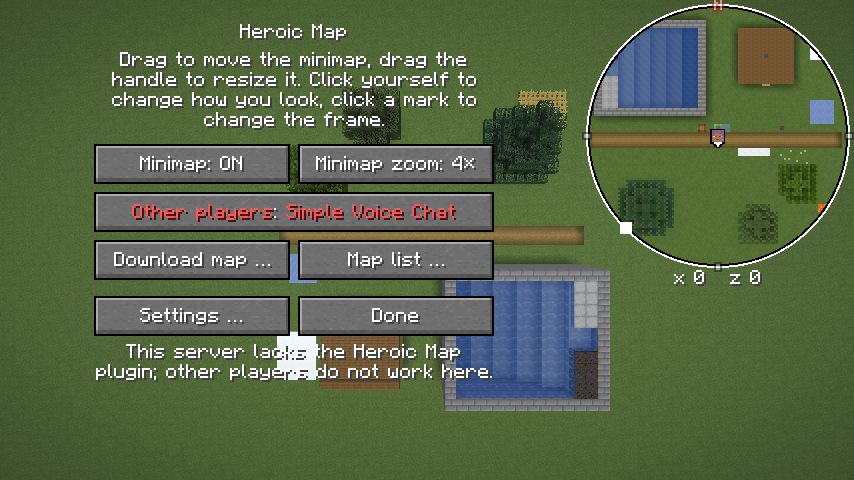
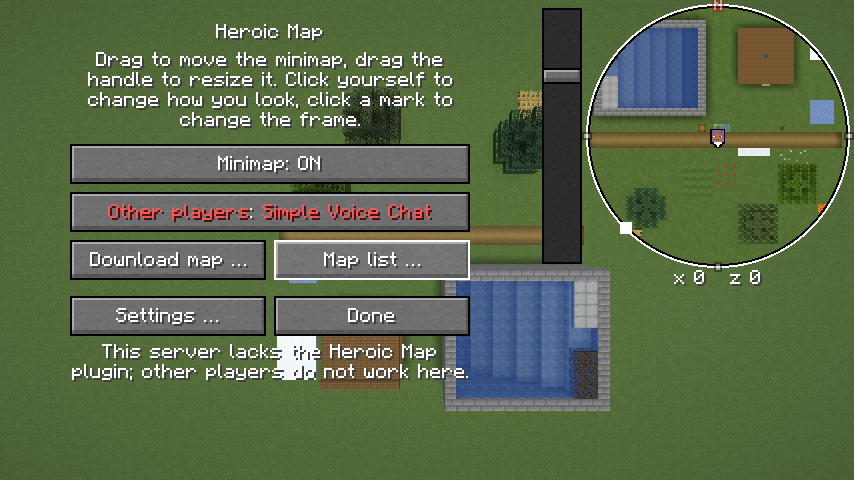
Bild des Menüs mit dem senkrechten Regler (#139)

diff --git a/docs/minimap.md b/docs/minimap.md
@@ -47,7 +47,7 @@ steht unter „Kosten“.
 
 `/hmap` öffnet das Menü (`Einstellungen`):
 
-![Das Menü über der Szene des Gametests, die Minimap rund mit den Koordinaten darunter; im Einzelspieler ohne Plugin steht „Mitspieler“ rot](bilder/menue.png)
+![Das Menü über der Szene des Gametests, die Minimap rund mit den Koordinaten darunter, links daneben der senkrechte Regler „Zoom der Minimap“; „Minimap“ ganz breit; im Einzelspieler ohne Plugin steht „Mitspieler“ rot](bilder/menue.png)
 
 | Einstellung | Vorgabe | tut |
 |---|---|---|
